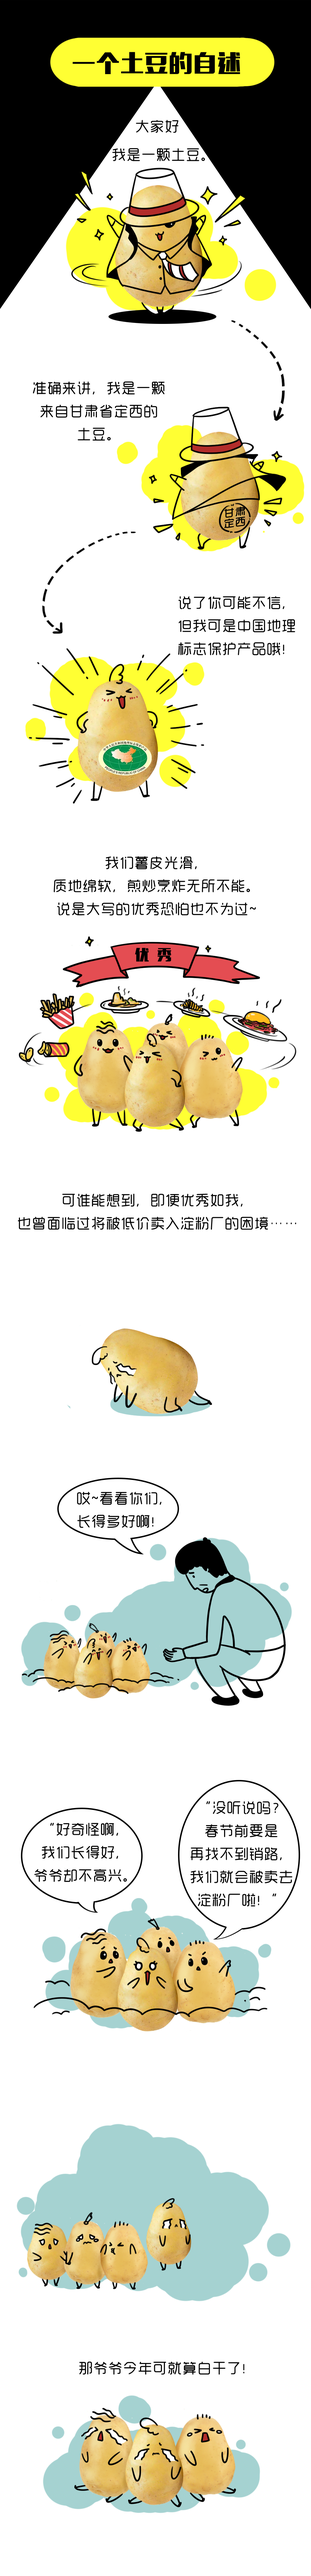
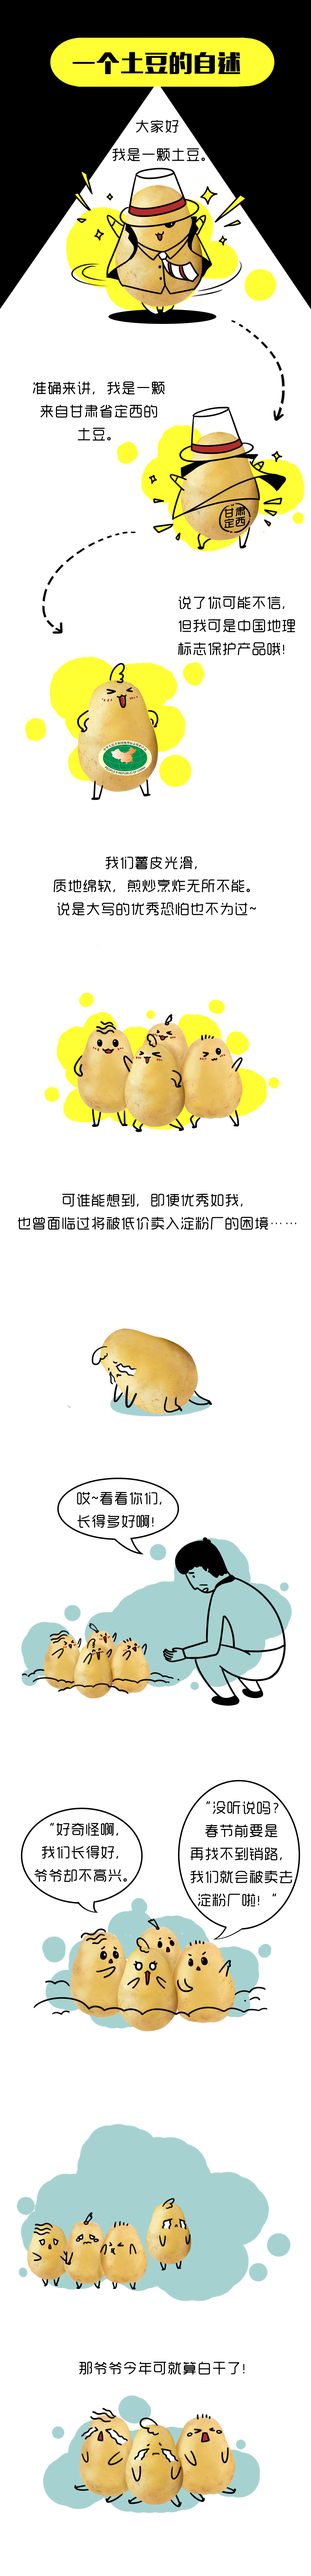
feat[h5v2] 土豆动画

diff --git a/h5v2/js/tudou.js b/h5v2/js/tudou.js
@@ -1,78 +1,198 @@
+var params = init();
 
-    var params = init();
+$('.tudou').click(function () {
+  TweenMax.to('.tudou', 1, {
+    opacity: 1
+  })
+  TweenMax.fromTo('.todou_container', 1, {
+    'z-index': 20,
+  }, {
+    ease: Power1.easeInOut,
+    opacity: 1
+  })
+})
 
-    $('.tudou').click(function(){
-      TweenMax.to('.tudou', 1, {
-        opacity: 1
-      })
-      TweenMax.fromTo('.todou_container', 1, {
-        'z-index': 20,
-      },{
-        ease: Power1.easeInOut,
-        opacity: 1
-      })
-    })
+var controller = new ScrollMagic.Controller();
+var scene1 = new ScrollMagic.Scene({
+  triggerElement: '.tuou_back1', //触发元素
+  offset: params.rain.rainTop, //从开始点滚动多少px触发（施法前摇）
+  duration: 300 //效果持续的距离（法术持续时间/距离）
+}).setTween(".rain", {
+  opacity: 1,
+  'left': params.rain.rainLeft + 'px'
+})
 
-    var controller = new ScrollMagic.Controller();
-    var scene1 = new ScrollMagic.Scene({
-      triggerElement: '.tuou_back1', //触发元素
-      offset: params.rain.rainTop, //从开始点滚动多少px触发（施法前摇）
-      duration: 300 //效果持续的距离（法术持续时间/距离）
-    }).setTween(".rain", {
-      opacity: 1,
-      'left': params.rain.rainLeft + 'px'
-    })
+var scene2 = new ScrollMagic.Scene({
+  triggerElement: '.tuou_back1',
+  offset: params.yeye.yeyeTop,
+  duration: 300
+}).setClassToggle(".yeye", 'yeye-active')
 
-    var scene2 = new ScrollMagic.Scene({
-      triggerElement: '.tuou_back1',
-      offset: params.yeye.yeyeTop,
-      duration: 300
-    }).setClassToggle(".yeye", 'yeye-active')
+var scene3 = new ScrollMagic.Scene({
+  triggerElement: '.tuou_back1',
+  offset: params.shougou.shougouTop - 100,
+  duration: 300
+}).setTween(".shougou", {
+  opacity: 1,
+  'left': params.shougou.shougouLeft + 'px'
+})
 
-    var scene3 = new ScrollMagic.Scene({
-      triggerElement: '.tuou_back1',
-      offset: params.shougou.shougouTop - 100,
-      duration: 300
-    }).setTween(".shougou", {
-      opacity: 1,
-      'left': params.shougou.shougouLeft + 'px'
-    })
+var scene4 = new ScrollMagic.Scene({
+  triggerElement: '.tuou_back1',
+  offset: params.haha.hahaTop,
+  duration: 300
+}).setClassToggle(".haha", 'yeye-active')
 
-    controller.addScene(scene1);
-    controller.addScene(scene2);
-    controller.addScene(scene3);
+var scene5 = new ScrollMagic.Scene({
+  triggerElement: '.tuou_back1',
+  offset: params.youxiu.youxiuTop - 100,
+  duration: 200
+}).setTween(".youxiu", {
+  opacity: 1,
+  'top': params.youxiu.youxiuTop + 'px'
+})
 
+var scene6 = new ScrollMagic.Scene({
+  triggerElement: '.tuou_back1',
+  offset: params.youxiu.youxiuTop - 100,
+  duration: 500
+}).setClassToggle(".item1", 'item1-active')
+var scene7 = new ScrollMagic.Scene({
+  triggerElement: '.tuou_back1',
+  offset: params.youxiu.youxiuTop - 100,
+  duration: 500
+}).setClassToggle(".item2", 'item2-active')
+var scene8 = new ScrollMagic.Scene({
+  triggerElement: '.tuou_back1',
+  offset: params.youxiu.youxiuTop - 100,
+  duration: 500
+}).setClassToggle(".item3", 'item3-active')
+var scene9 = new ScrollMagic.Scene({
+  triggerElement: '.tuou_back1',
+  offset: params.youxiu.youxiuTop - 100,
+  duration: 500
+}).setClassToggle(".item4", 'item4-active')
+var scene10 = new ScrollMagic.Scene({
+  triggerElement: '.tuou_back1',
+  offset: params.youxiu.youxiuTop - 100,
+  duration: 500
+}).setClassToggle(".item5", 'item5-active')
 
-    function init() {
-      let width = document.querySelector('.tuou_back1').clientWidth;
-      let height = document.querySelector('.tuou_back1').clientHeight;
-      let rainTop = 1502 / 3108 * height;
-      let rainLeft = 101 / 375 * width;
+controller.addScene(scene1);
+controller.addScene(scene2);
+controller.addScene(scene3);
+controller.addScene(scene4);
+controller.addScene(scene5);
+controller.addScene(scene6);
+controller.addScene(scene7);
+controller.addScene(scene8);
+controller.addScene(scene9);
+controller.addScene(scene10);
 
-      let yeyeTop = 1908 / 3108 * height;
-      let yeyeLeft = 37 / 375 * width;
+function init() {
+  let width = document.querySelector('.tuou_back1').clientWidth;
+  let height = document.querySelector('.tuou_back1').clientHeight;
+  let rainTop = 1502 / 3108 * height;
+  let rainLeft = 101 / 375 * width;
 
-      let shougouTop = 2525 / 3108 * height;
-      let shougouLeft = 71 / 375 * width;
+  let yeyeTop = 1908 / 3108 * height;
+  let yeyeLeft = 37 / 375 * width;
 
-      $('.rain').css("top", rainTop)
-      $('.yeye').css("top", yeyeTop)  
-      $('.yeye').css("left", yeyeLeft)
-      $('.shougou').css("top", shougouTop)  
-      $('.shougou').css("left", shougouLeft + 100)
+  let shougouTop = 2525 / 3108 * height;
+  let shougouLeft = 71 / 375 * width;
 
-      return {
-        rain : {
-          rainTop,
-          rainLeft
-        },
-        yeye: {
-          yeyeTop,
-          yeyeLeft
-        },
-        shougou: {
-          shougouTop,
-          shougouLeft
-        }
-      }
+  let hahaTop = 793 / 3108 * height;
+  let hahaLeft = 48 / 375 * width;
+
+  let youxiuTop = 1135 / 3108 * height;
+  let youxiuLeft = 96 / 375 * width;
+
+  newAnimX(37 / 375 * width, 280 / 375 * width)
+  newAnimY(1165 / 3108 * height, 1210 / 3108 * height)
+  let item1Top = 1232 / 3108 * height;
+  let item1Left = 37 / 375 * width;
+  let item2Top = 1187 / 3108 * height;
+  let item2Left = 61 / 375 * width;
+  let item3Top = 1178 / 3108 * height;
+  let item3Left = 123 / 375 * width;
+  let item4Top = 1179 / 3108 * height;
+  let item4Left = 200 / 375 * width;
+  let item5Top = 1200 / 3108 * height;
+  let item5Left = 251 / 375 * width;
+
+  $('.rain').css("top", rainTop)
+  $('.yeye').css("top", yeyeTop)
+  $('.yeye').css("left", yeyeLeft)
+  $('.shougou').css("top", shougouTop)
+  $('.shougou').css("left", shougouLeft + 100)
+  $('.haha').css("top", hahaTop)
+  $('.haha').css("left", hahaLeft)
+  $('.youxiu').css("top", youxiuTop - 100)
+  $('.youxiu').css("left", youxiuLeft)
+  $('.item1').css("top", item1Top)
+  $('.item1').css("left", item1Left)
+  $('.item2').css("top", item2Top)
+  $('.item2').css("left", item2Left)
+  $('.item3').css("top", item3Top)
+  $('.item3').css("left", item3Left)
+  $('.item4').css("top", item4Top)
+  $('.item4').css("left", item4Left)
+  $('.item5').css("top", item5Top)
+  $('.item5').css("left", item5Left)
+
+  return {
+    rain: {
+      rainTop,
+      rainLeft
+    },
+    yeye: {
+      yeyeTop,
+      yeyeLeft
+    },
+    shougou: {
+      shougouTop,
+      shougouLeft
+    },
+    haha: {
+      hahaTop,
+      hahaLeft
+    },
+    youxiu: {
+      youxiuTop,
+      youxiuLeft
     }
+  }
+}
+
+
+function newAnimX(left1, left2) {
+  const runkeyframes =`@keyframes animX {
+    0% {
+      left: ${left1}px;
+    }
+  
+    100% {
+      left: ${left2}px;
+    }
+  }`
+  const style = document.createElement('style');
+  style.type = 'text/css';
+  style.innerHTML = runkeyframes;
+  $('head')[0].append(style);
+}
+
+function newAnimY(top1, top2) {
+  const runkeyframes =`@keyframes animY {
+    0% {
+      top: ${top1}px;
+    }
+  
+    100% {
+      top: ${top2}px;
+    }
+  }`
+  const style = document.createElement('style');
+  style.type = 'text/css';
+  style.innerHTML = runkeyframes;
+  $('head')[0].append(style);
+}

diff --git a/h5v2/css/tudou.css b/h5v2/css/tudou.css
@@ -4,11 +4,17 @@
   overflow-x: hidden;
 }
 
+.no-pointer {
+  user-select: none;
+  pointer-events: none;
+}
+
 .tuou_back {
   width: 100%;
   position: relative;
   display: block;
 }
+
 .rain {
   width: 40%;
   left: 60%;
@@ -43,4 +49,84 @@
   opacity: 0;
   width: 75%;
   position: absolute;
+}
+
+.haha {
+  width: 50%;
+  position: absolute;
+}
+
+.youxiu {
+  width: 52%;
+  opacity: 0;
+  position: absolute;
+}
+
+@keyframes scale {
+  0% {
+    transform: scale(0.7)
+  }
+
+  50% {
+    transform: scale(1)
+  }
+
+  100% {
+    transform: scale(0.7)
+  }
+}
+
+.item1 {
+  width: 15%;
+  position: absolute;
+}
+
+.item1-active {
+  animation: animX 5s cubic-bezier(0.36, 0, 0.64, 1) -2s infinite alternate,
+    animY 5s cubic-bezier(0.36, 0, 0.64, 1) 0s infinite alternate,
+    scale 10s cubic-bezier(0.36, 0, 0.64, 1) 0s infinite alternate;
+}
+
+.item2 {
+  width: 8%;
+  position: absolute;
+}
+
+.item2-active {
+  animation: animX 5s cubic-bezier(0.36, 0, 0.64, 1) -4s infinite alternate,
+  animY 5s cubic-bezier(0.36, 0, 0.64, 1) -2s infinite alternate,
+  scale 10s cubic-bezier(0.36, 0, 0.64, 1) -2s infinite alternate;
+}
+
+.item3 {
+  width: 13%;
+  position: absolute;
+}
+
+.item3-active {
+  animation: animX 5s cubic-bezier(0.36, 0, 0.64, 1) -6s infinite alternate,
+  animY 5s cubic-bezier(0.36, 0, 0.64, 1) -4s infinite alternate,
+  scale 10s cubic-bezier(0.36, 0, 0.64, 1) -4s infinite alternate;
+}
+
+.item4 {
+  width: 11%;
+  position: absolute;
+}
+
+.item4-active {
+  animation: animX 5s cubic-bezier(0.36, 0, 0.64, 1) -8s infinite alternate,
+  animY 5s cubic-bezier(0.36, 0, 0.64, 1) -6s infinite alternate,
+  scale 10s cubic-bezier(0.36, 0, 0.64, 1) -6s infinite alternate;
+}
+
+.item5 {
+  width: 12%;
+  position: absolute;
+}
+
+.item5-active {
+  animation: animX 5s cubic-bezier(0.36, 0, 0.64, 1) -10s infinite alternate,
+  animY 5s cubic-bezier(0.36, 0, 0.64, 1) -8s infinite alternate,
+  scale 10s cubic-bezier(0.36, 0, 0.64, 1) -8s infinite alternate;
 }

diff --git a/h5v2/index.html b/h5v2/index.html
@@ -26,9 +26,21 @@
     <img src="./static/土豆自白.png" alt="" class="tuou_back tuou_back1">
     <img src="./static/土豆自白2.png" alt="" class="tuou_back tuou_back2">
     <img src="./static/土豆自白3.png" alt="" class="tuou_back tuou_back3">
-    <img src="./static/rain.png" alt="" class="rain">
-    <img src="./static/yeye.png" alt="" class="yeye">
-    <img src="./static/shougou.png" alt="" class="shougou">
+    <div class="no-pointer">
+      <img src="./static/rain.png" alt="" class="rain">
+      <img src="./static/yeye.png" alt="" class="yeye">
+      <img src="./static/shougou.png" alt="" class="shougou">
+      <img src="./static/haha.png" alt="" class="haha">
+    </div>
+    <div class="no-pointer">
+      <img src="./static/youxiu.png" alt="" class="youxiu">
+      <img src="./static/item1.png" alt="" class="item1 item">
+      <img src="./static/item2.png" alt="" class="item2 item">
+      <img src="./static/item3.png" alt="" class="item3 item">
+      <img src="./static/item4.png" alt="" class="item4 item">
+      <img src="./static/item5.png" alt="" class="item5 item">
+    </div>
+
   </div>
   <div id="mainBox">
     <div class="swiper-container">
